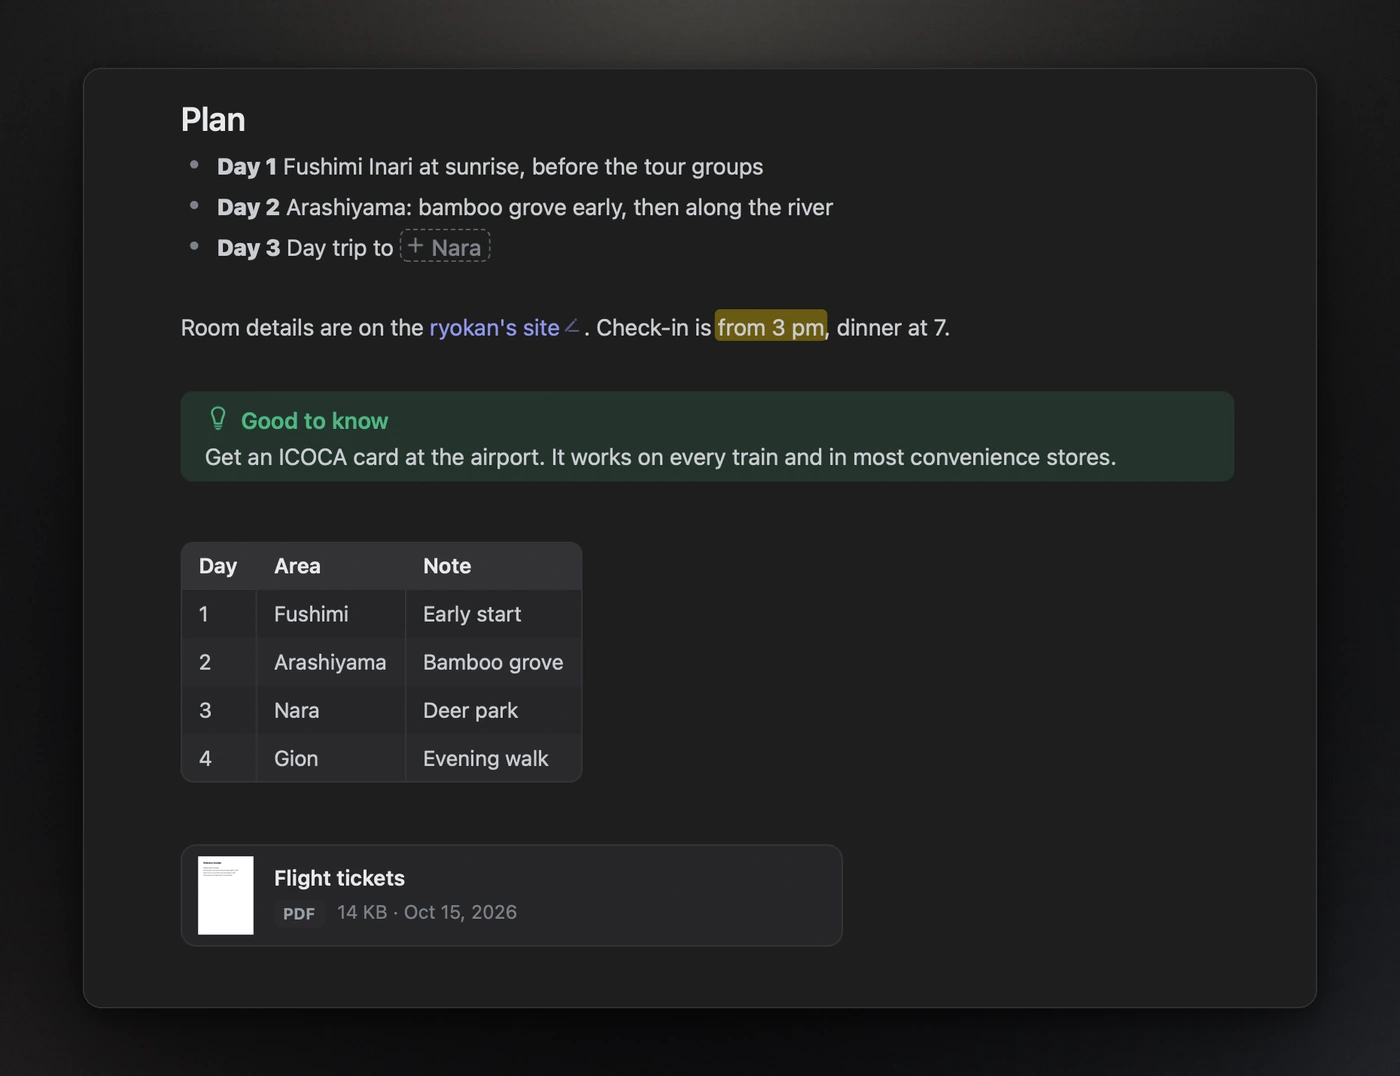
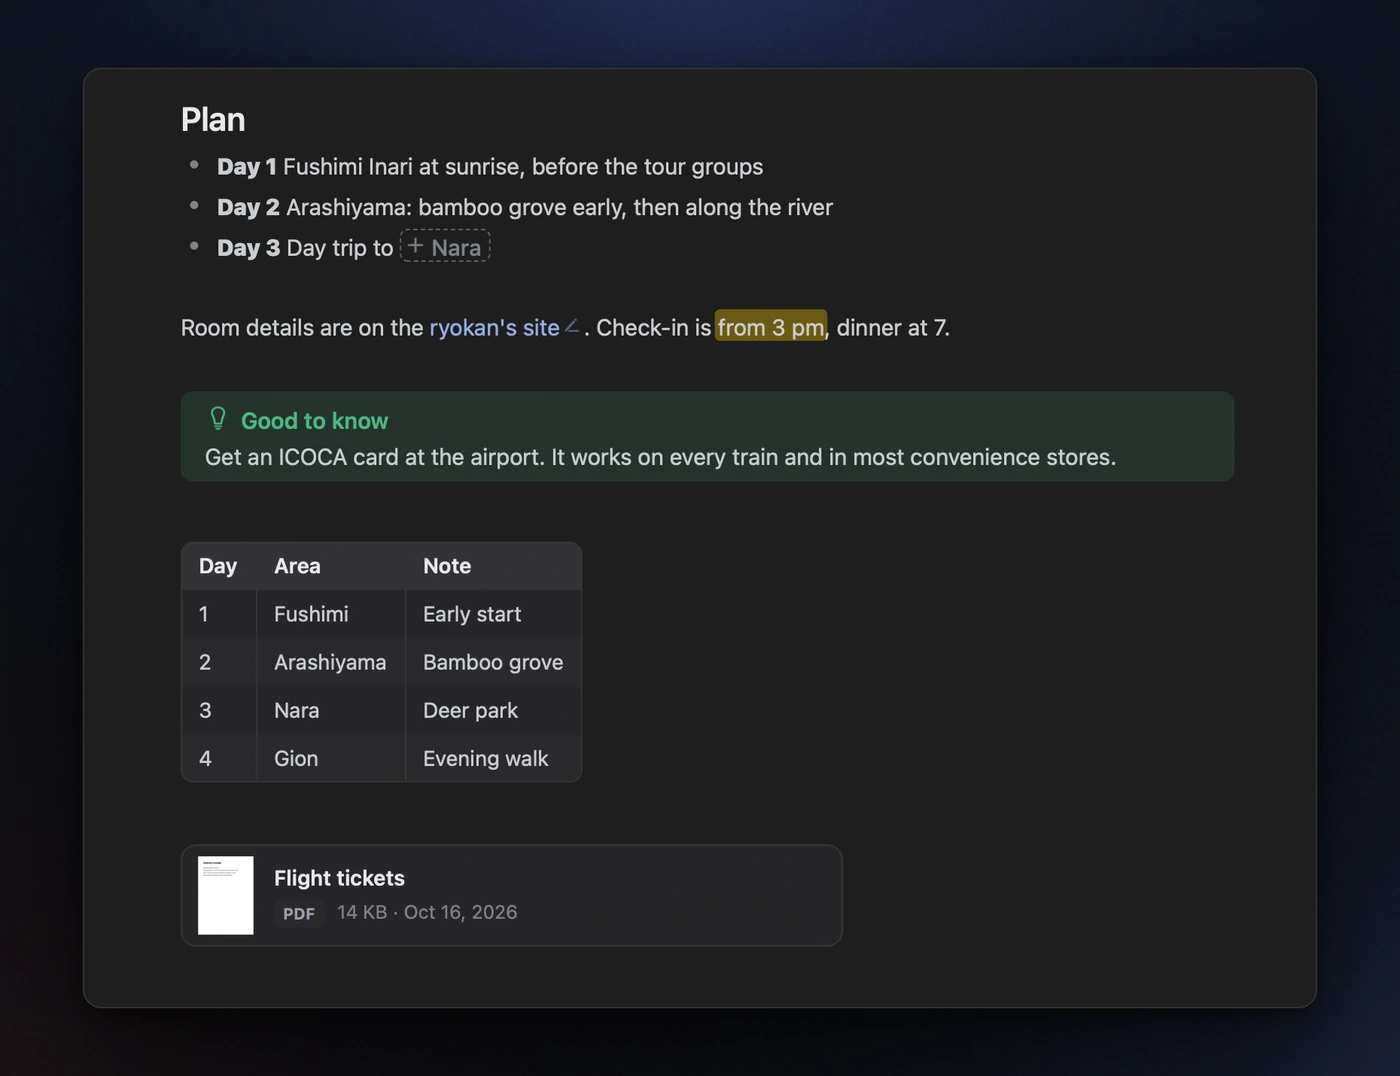
Ink blue as the accent colour, and the README pictures in it (#36)
* Ink blue as Folio's accent colour

Folio's accent is now a blue-black ink (#34508F light, #93ABE3 dark) in place of Issues' indigo, to go with the
oxblood leather notebook on the icon. Links, the caret, folders, link chips and the swatch rings in Settings › App Icon
take it while the accent in System Settings is set to Multicolour; any other accent the user picked still wins, as
Theme.accent stays the system's controlAccentColor. Both values pass text contrast (7.8:1 on white, 7.3:1 on the dark
page).

The README tour and the changelog mention it, and PLAN.md records the icon and colour as decided.

* README pictures, badges and social preview in Folio's colours

The backdrops behind the README pictures glow in the ink blue of the accent, with a little of the notebook's oxblood
in one corner, in place of the neutral greys. The badges use the same ink. Every picture and Design/social-preview.png
is retaken with Tools/readme-images.sh, so they show the new accent and the leather notebook icon.

* Keep the old README pictures until the app is renamed

The app is being renamed from Folio to Notebook in another pull request, and the social preview and the sample notes
show the name. The pictures go back to main's version here and are retaken once, with the new name, after the rename
lands. The ink backdrops in compose.py and the ink badges stay, so that run picks them up.

* README pictures and social preview with the new name and the ink accent
[…]

Changed region(s): [[0.2764, 0.0, 0.7371, 0.0613]]

diff --git a/Packages/NotebookKit/Sources/NotebookKit/UI/Theme.swift b/Packages/NotebookKit/Sources/NotebookKit/UI/Theme.swift
@@ -24,7 +24,7 @@ public enum Theme {
     /// Markdown punctuation shown next to the caret.
     static let faint = NSColor(light: 0xA3A7AF, dark: 0x5A5E66)
 
-    /// The accent colour chosen in System Settings, or Notebook's violet when it is set to Multicolour.
+    /// The accent colour chosen in System Settings, or Notebook's ink blue (`AccentColor`) when it is set to Multicolour.
     static let accent = NSColor.controlAccentColor
     static let positive = NSColor(light: 0x2F9B67, dark: 0x4CB782)
     static let warning = NSColor(light: 0xB8791C, dark: 0xE5A84B)

diff --git a/Tools/readme-images/compose.py b/Tools/readme-images/compose.py
@@ -2,18 +2,19 @@
 import numpy as np
 from PIL import Image, ImageChops, ImageDraw, ImageFilter
 
-# Neutral for now: Notebook's own colour comes with its icon. Change the glows here when it does.
+# Notebook's colours: glows in the ink blue of its accent (Notebook/Assets.xcassets/AccentColor), and a little of
+# the icon's oxblood leather in one corner.
 THEMES = {
     # Glows: colour, strength, centre (fractions of width and height), radius (fraction of width).
     "dark": dict(
-        base=(14, 14, 16),
-        glows=[((120, 116, 108), 0.55, (0.50, -0.05), 0.95), ((92, 98, 112), 0.30, (1.00, 1.05), 0.60),
-               ((112, 100, 92), 0.20, (0.00, 1.05), 0.55)],
+        base=(12, 13, 17),
+        glows=[((46, 72, 132), 0.60, (0.50, -0.05), 0.95), ((64, 90, 150), 0.30, (1.00, 1.05), 0.60),
+               ((110, 52, 50), 0.18, (0.00, 1.05), 0.55)],
         shadow=0.70, border=(255, 255, 255, 22), rim=(255, 255, 255, 34)),
     "light": dict(
-        base=(242, 241, 238),
-        glows=[((214, 208, 196), 0.55, (0.50, 0.00), 0.75), ((196, 204, 218), 0.30, (0.95, 1.05), 0.55),
-               ((222, 210, 198), 0.25, (0.02, 1.00), 0.50)],
+        base=(238, 240, 245),
+        glows=[((196, 208, 232), 0.60, (0.50, 0.00), 0.75), ((184, 198, 228), 0.30, (0.95, 1.05), 0.55),
+               ((230, 206, 200), 0.25, (0.02, 1.00), 0.50)],
         shadow=0.24, border=(0, 0, 0, 20), rim=(0, 0, 0, 30)),
 }
 

diff --git a/README.md b/README.md
@@ -10,11 +10,11 @@
 </p>
 
 <p align="center">
-  <img alt="Platform: macOS 27 or later" src="https://img.shields.io/badge/macOS-27%2B-111214">
-  <img alt="Apple silicon" src="https://img.shields.io/badge/Apple%20silicon-native-111214">
+  <img alt="Platform: macOS 27 or later" src="https://img.shields.io/badge/macOS-27%2B-34508F">
+  <img alt="Apple silicon" src="https://img.shields.io/badge/Apple%20silicon-native-34508F">
   <img alt="Built with Swift, SwiftUI and AppKit" src="https://img.shields.io/badge/Swift-SwiftUI%20%2B%20AppKit-F05138">
-  <a href="LICENSE"><img alt="License: MIT" src="https://img.shields.io/badge/license-MIT-111214"></a>
-  <a href="CHANGELOG.md"><img alt="Version 0.1.0" src="https://img.shields.io/badge/version-0.1.0-111214"></a>
+  <a href="LICENSE"><img alt="License: MIT" src="https://img.shields.io/badge/license-MIT-34508F"></a>
+  <a href="CHANGELOG.md"><img alt="Version 0.1.0" src="https://img.shields.io/badge/version-0.1.0-34508F"></a>
 </p>
 
 <p align="center">
@@ -128,7 +128,7 @@ appearance. The inspector shows a note's outline, with the section you're readin
 a heading scrolls there. In Settings › Text you pick the typeface (San Francisco, New York, Rounded or Monospaced),
 the size, the line spacing and the line width. The icon is a leather notebook, and Settings › App Icon makes it yours:
 pick the leather, the elastic band, the ribbon and the background, and the Dock shows your notebook while the app is
-open.
+open. Links, the caret and folders are in ink blue to go with it, or in the accent colour you chose in System Settings.
 
 ## What it does
 

diff --git a/PLAN.md b/PLAN.md
@@ -46,6 +46,7 @@ Name: **Notebook** (bis zum 16.10.2026 hieß die App Folio). Stand: Planungssitz
 | Anhänge | `.assets/` in jedem Ordner, unsichtbar in Notebook, im Finder und in der Dateien-App. Wer ein Bild in der Notiz löscht, löscht auch die Datei. |
 | Andere Dateien | Quick Look für alles, was nicht Markdown ist, auch für PDF, Bild und Video |
 | Offline | Markdown-Dateien bleiben auf jedem Gerät geladen. PDFs und Bilder werden durchsucht, sobald sie lokal sind, bis dahin zeigt der Baum ein Wolken-Symbol. |
+| Symbol und Farbe | Ein Notizbuch aus Ochsenblut-Leder als App-Symbol, in den Einstellungen selbst einzufärben. Akzentfarbe ist Tintenblau (`#34508F` hell, `#93ABE3` dunkel), wenn in den Systemeinstellungen „Mehrfarbig“ gewählt ist. |
 
 ## 3. Wie es sich anfühlt
 
@@ -320,5 +321,3 @@ Das meiste davon lässt sich später ergänzen, ohne das Dateiformat zu ändern.
   kleines Werkzeug, das alle Notizen samt Ordnern auf einmal holt?
 - **Sortierung im Baum:** nach Name oder nach Änderungsdatum, Ordner zuerst?
 - **Typografie des Dokuments:** SF Pro oder New York, Lesebreite (Vorschlag: etwa 680 pt, mittig)
-- **Akzentfarbe:** das Violett von Issues oder eine eigene Farbe für Notebook
-- **App-Symbol**

diff --git a/CHANGELOG.md b/CHANGELOG.md
@@ -33,3 +33,5 @@ The first version: a Mac app for Markdown notes in your own folders. While it wa
 - Settings for the typeface, size, line spacing and line width, and for what the sidebar shows.
 - A leather notebook as the app icon. Make it your own in Settings › App Icon: the leather, the elastic band, the
   ribbon and the background, shown in the Dock while Notebook is open. A tip in the sidebar points there.
+- Ink blue as Notebook's accent colour, for links, the caret and folders, when the accent in System Settings is set
+  to Multicolour.
